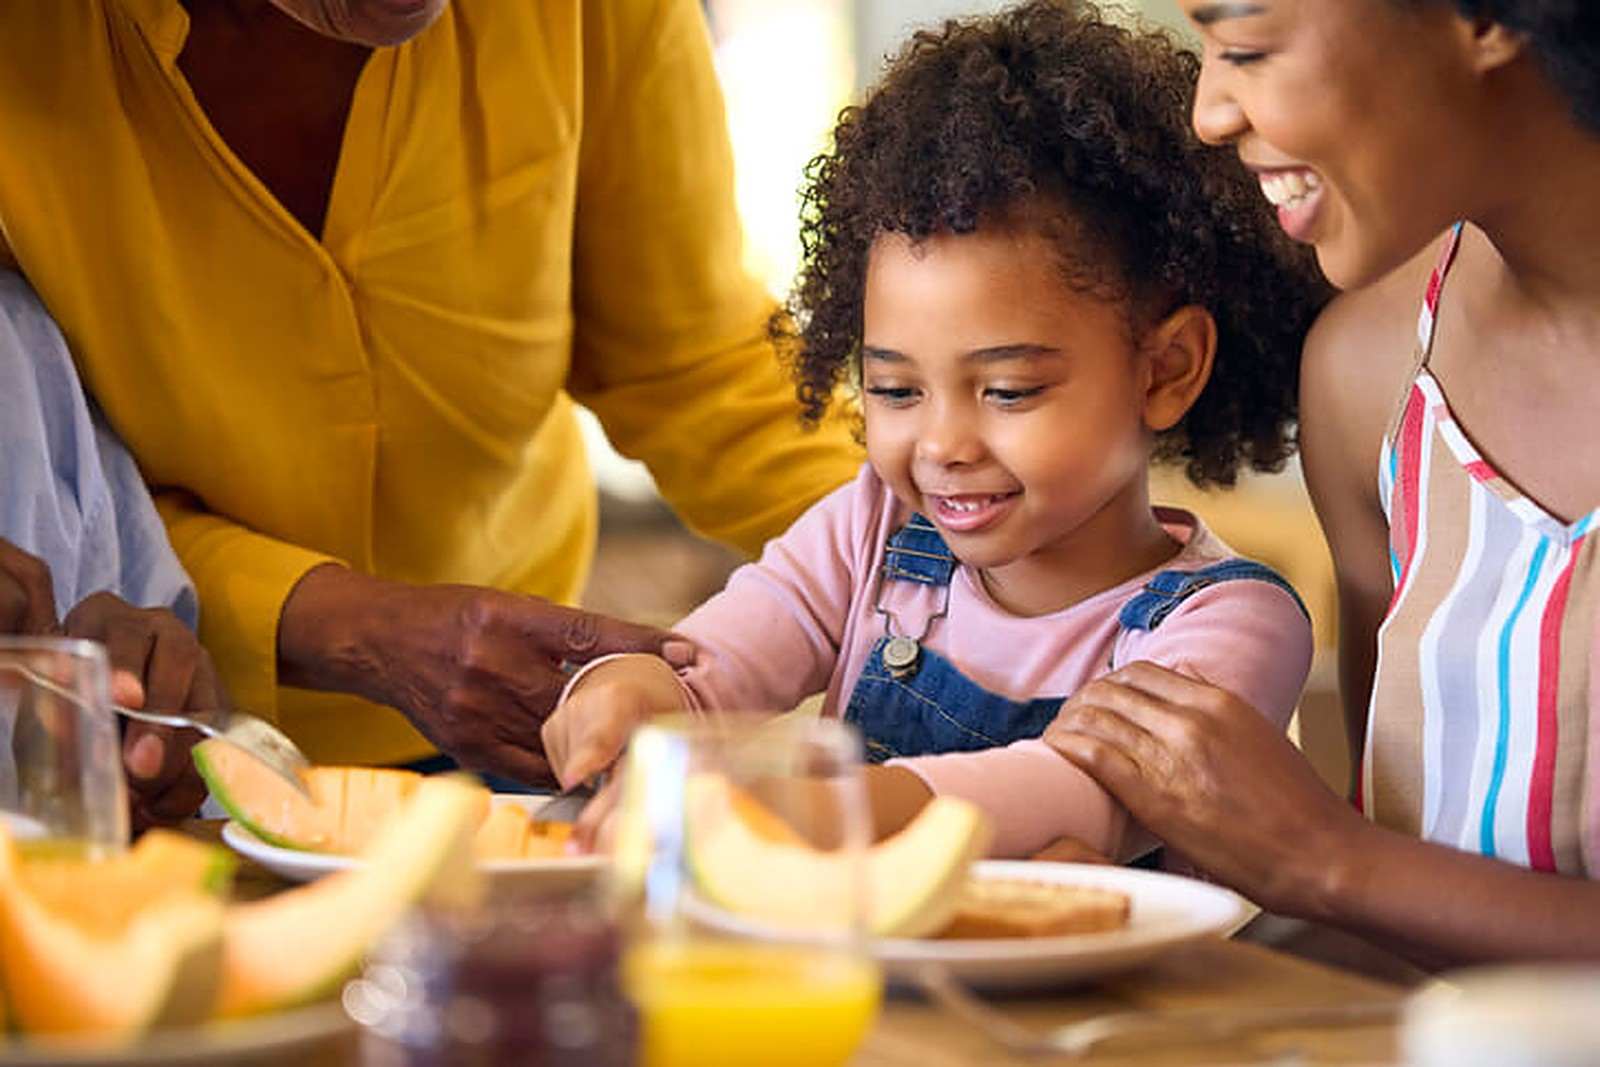
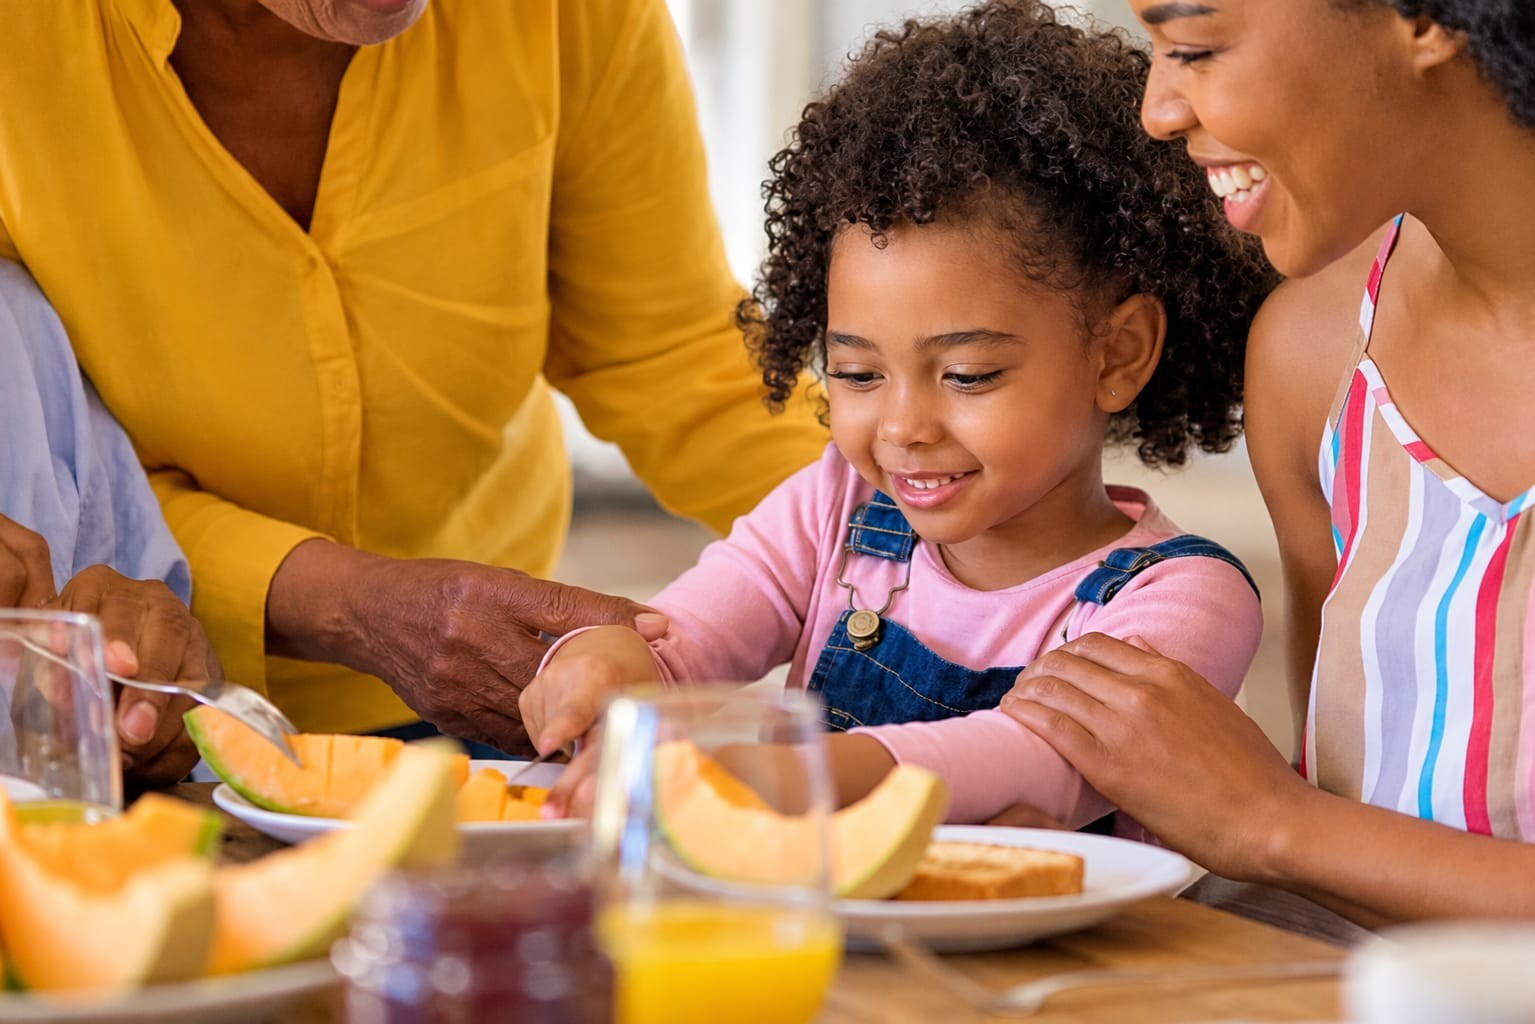
Atualiza conteúdo visual e interações do site

diff --git a/index.html b/index.html
@@ -111,10 +111,11 @@
 </div></section>
 <section id="participantes" aria-labelledby="h-eq"><div class="wrap"><h2 id="h-eq" data-split>Quem faz o Grão a Grão.</h2><p class="lead rv" style="margin-top:1rem">Somos da UNIFAN e construímos o projeto juntos, em três frentes que se completam: desenvolvimento, design e marketing.</p>
 <div class="team">
-<article class="mb rv"><figure class="mf"><svg viewBox="0 0 200 250" role="img" aria-label="Imagem ilustrativa"><rect width="200" height="250" fill="#F6F0E4"/><circle cx="100" cy="95" r="42" fill="#5D3E32"/><path d="M20 250c0-60 36-95 80-95s80 35 80 95z" fill="#305C43"/></svg><figcaption>Imagem ilustrativa</figcaption></figure><div class="mt"><small>Desenvolvedor · Design · Marketing</small><h3>Luis Renato</h3><p>Reúne três frentes do projeto. No desenvolvimento, estrutura o site e as interações, como a simulação de doação com pontos, selos e certificado. No design, cuida da identidade visual: o logo, as cores, o escudo com trigo e a mascote Dona Papuda. No marketing, ajuda a transformar a proposta em uma mensagem clara para instituições e doadores.</p><ul class="roles"><li>Desenvolvimento</li><li>Design</li><li>Marketing</li></ul></div></article>
-<article class="mb rv"><figure class="mf"><svg viewBox="0 0 200 250" role="img" aria-label="Imagem ilustrativa"><rect width="200" height="250" fill="#E6EFE9"/><circle cx="100" cy="95" r="42" fill="#305C43"/><path d="M20 250c0-60 36-95 80-95s80 35 80 95z" fill="#D6A52B"/></svg><figcaption>Imagem ilustrativa</figcaption></figure><div class="mt"><small>Desenvolvedora</small><h3>Thalita</h3><p>Atua no desenvolvimento da plataforma, transformando as ideias do projeto em funcionalidades que funcionam. Contribui com a organização do código, com os testes e com a revisão das telas, para que registrar, acompanhar e consultar doações seja simples para quem usa.</p><ul class="roles"><li>Desenvolvimento</li></ul></div></article>
-<article class="mb rv"><figure class="mf"><svg viewBox="0 0 200 250" role="img" aria-label="Imagem ilustrativa"><rect width="200" height="250" fill="#F3E6BF"/><circle cx="100" cy="95" r="42" fill="#D6A52B"/><path d="M20 250c0-60 36-95 80-95s80 35 80 95z" fill="#5D3E32"/></svg><figcaption>Imagem ilustrativa</figcaption></figure><div class="mt"><small>Desenvolvedor · Marketing</small><h3>Luis</h3><p>Divide-se entre o código e a comunicação. No desenvolvimento, colabora na construção e no ajuste das páginas e das animações. No marketing, ajuda a pensar os textos, a divulgação e a forma de apresentar o Grão a Grão para quem pode doar e para quem pode receber.</p><ul class="roles"><li>Desenvolvimento</li><li>Marketing</li></ul></div></article>
-<article class="mb rv"><figure class="mf"><svg viewBox="0 0 200 250" role="img" aria-label="Imagem ilustrativa"><rect width="200" height="250" fill="#E9DED6"/><circle cx="100" cy="95" r="42" fill="#5E9A78"/><path d="M20 250c0-60 36-95 80-95s80 35 80 95z" fill="#305C43"/></svg><figcaption>Imagem ilustrativa</figcaption></figure><div class="mt"><small>Marketing</small><h3>Mateus</h3><p>Cuida da comunicação do projeto: define como o Grão a Grão se apresenta, escreve e revisa os textos, pensa a divulgação e aproxima a proposta de instituições e possíveis doadores, sempre com foco em transparência e confiança.</p><ul class="roles"><li>Marketing</li></ul></div></article>
+<article class="mb rv"><figure class="mf"><img src="assets/png/equipe-luis-renato.jpg" alt="Foto de Luis Renato" width="800" height="1000" loading="lazy"></figure><div class="mt"><small>Desenvolvedor · Design · Marketing</small><h3>Luis Renato</h3><p>Cuida de várias partes do projeto ao mesmo tempo. No desenvolvimento, dá vida ao site e às interações, como a simulação de doação com pontos, selos e certificado. No design, desenha a identidade visual: o logo, as cores, o escudo com trigo e a Dona Papuda. No marketing, ajuda a contar a nossa história de um jeito simples e acolhedor, para quem doa e para quem recebe.</p><ul class="roles"><li>Desenvolvimento</li><li>Design</li><li>Marketing</li></ul></div></article>
+<article class="mb rv"><figure class="mf"><img src="assets/png/equipe-luis.jpg" alt="Foto de Luis Gustavo" width="800" height="1000" loading="lazy"></figure><div class="mt"><small>Desenvolvedor · Marketing</small><h3>Luis Gustavo</h3><p>Fica entre o código e a conversa. Ajuda a construir e a ajustar as páginas e as animações, para que o site seja gostoso de usar, e também pensa nos textos e na divulgação, para que mais instituições e doadores conheçam o Grão a Grão e se sintam à vontade para fazer parte.</p><ul class="roles"><li>Desenvolvimento</li><li>Marketing</li></ul></div></article>
+<article class="mb rv"><figure class="mf"><img src="assets/png/equipe-thalita.jpg" alt="Foto de Thalita" width="800" height="1000" loading="lazy"></figure><div class="mt"><small>Desenvolvedora</small><h3>Thalita</h3><p>Transforma as ideias do grupo em funcionalidades que realmente funcionam. Organiza o código, faz os testes e revisa as telas com cuidado, sempre pensando em quem vai usar: para que registrar, acompanhar e consultar doações seja fácil e sem complicação.</p><ul class="roles"><li>Desenvolvimento</li></ul></div></article>
+<article class="mb rv"><figure class="mf"><img src="assets/png/equipe-matheus.jpg" alt="Foto de Matheus" width="800" height="1000" loading="lazy"></figure><div class="mt"><small>Marketing</small><h3>Matheus</h3><p>Cuida do jeito como o Grão a Grão conversa com as pessoas. Escreve e revisa os textos, pensa na divulgação e aproxima a proposta de instituições e possíveis doadores, sempre com transparência e confiança.</p><ul class="roles"><li>Marketing</li></ul></div></article>
+<article class="mb rv"><figure class="mf"><img src="assets/png/equipe-ideacao.jpg" alt="Foto do integrante de ideação" width="800" height="1000" loading="lazy"></figure><div class="mt"><small>Ideação</small><h3>Pedro</h3><p>É de onde tudo começa: as ideias. Levanta perguntas, propõe caminhos e ajuda o grupo a transformar uma necessidade real em soluções simples de entender. Participa da escolha do tema, do público e das funcionalidades, ouvindo e imaginando antes de qualquer coisa ser construída.</p><ul class="roles"><li>Ideação</li></ul></div></article>
 </div></div></section>
 </main>
 

diff --git a/css/styles.css b/css/styles.css
@@ -484,3 +484,18 @@ nav ul a.act{color:var(--green);font-weight:700}
 .ndl{position:absolute;z-index:4;pointer-events:none;width:32px;height:64px;opacity:0;transform:translateY(-10px);transition:opacity .8s ease .2s,transform 1s var(--out) .2s;filter:drop-shadow(0 2px 1.5px rgba(60,38,24,.25))}
 .sc-card.in .ndl{opacity:1;transform:none}
 @media(prefers-reduced-motion:reduce){.stitch{clip-path:none;transition:none}.ndl{opacity:1;transform:none;transition:none}}
+
+.mf img{display:block;width:100%;height:100%;object-fit:cover}
+/* ===== barra de navegação (ajuste) ===== */
+nav{max-width:1120px;min-width:0;padding:.5rem .55rem .5rem 1.1rem;gap:.8rem}
+nav .btn{flex:none;margin-left:auto}
+nav .brand{flex:none}
+nav ul{min-width:0}
+header{left:.6rem;right:.6rem}
+@media(min-width:1180px){nav ul{margin:0 auto;gap:clamp(.7rem,1.3vw,1.4rem)}nav ul a{font-size:.88rem}}
+@media(max-width:1179px){nav{flex-wrap:wrap}nav ul{order:3;flex:1 1 100%;width:100%;overflow-x:auto;justify-content:flex-start}}
+#publico{overflow-x:clip}
+
+@media(min-width:1180px){nav ul{margin:0 0 0 auto}nav .btn{margin-left:1.1rem}}
+
+@media(min-width:1180px){nav{width:auto}nav ul{margin:0 0 0 .9rem}nav .btn{margin-left:.9rem}}
